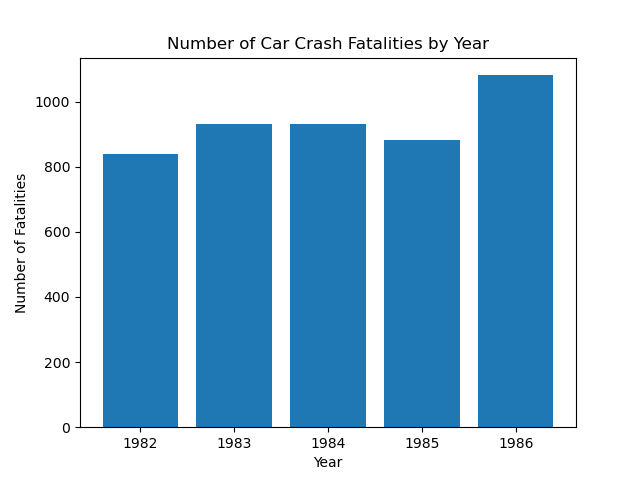
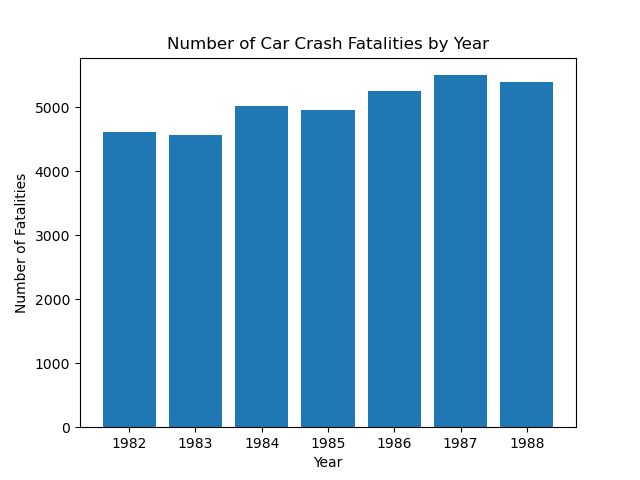
added md image path

diff --git a/driving_summary.md b/driving_summary.md
@@ -1,13 +1,13 @@
 Describe:
-|       |   Unnamed: 0 |       year |    fatal |
-|:------|-------------:|-----------:|---------:|
-| count |      5       |    5       |    5     |
-| mean  |      3       | 1984       |  932.8   |
-| std   |      1.58114 |    1.58114 |   91.311 |
-| min   |      1       | 1982       |  839     |
-| 25%   |      2       | 1983       |  882     |
-| 50%   |      3       | 1984       |  930     |
-| 75%   |      4       | 1985       |  932     |
-| max   |      5       | 1986       | 1081     |
+|       |   Unnamed: 0 |       year |    spirits |     unemp |   income |    emppop |     beertax |    baptist |     mormon |   drinkage |         dry |   youngdrivers |    miles |    fatal |   nfatal |   sfatal |   fatal1517 |   nfatal1517 |   fatal1820 |   nfatal1820 |   fatal2124 |   nfatal2124 |    afatal |              pop |        pop1517 |        pop1820 |        pop2124 |   milestot |   unempus |   emppopus |          gsp |
+|:------|-------------:|-----------:|-----------:|----------:|---------:|----------:|------------:|-----------:|-----------:|-----------:|------------:|---------------:|---------:|---------:|---------:|---------:|------------:|-------------:|------------:|-------------:|------------:|-------------:|----------:|-----------------:|---------------:|---------------:|---------------:|-----------:|----------:|-----------:|-------------:|
+| count |     336      |  336       | 336        | 336       |   336    | 336       | 336         | 336        | 336        | 336        | 336         |    336         |   336    |  336     |  336     |  336     |    336      |     336      |     336     |     336      |     336     |     336      |  336      |    336           |    336         |    336         |    336         |      336   | 336       |  336       | 336          |
+| mean  |     168.5    | 1985       |   1.75369  |   7.34673 | 13880.2  |  60.8057  |   0.513256  |   7.15692  |   2.80193  |  20.4556   |   4.26707   |      0.18593   |  7890.75 |  928.664 |  182.583 |  109.949 |     62.6101 |      12.2619 |     106.661 |      33.5268 |     126.872 |      41.378  |  293.333  |      4.93027e+06 | 230815         | 249090         | 336390         |    37101.5 |   7.52857 |   59.9714  |   0.0253135  |
+| std   |      97.1391 |    2.00298 |   0.683575 |   2.5334  |  2253.05 |   4.72166 |   0.477844  |   9.76262  |   9.66528  |   0.899025 |   9.5009    |      0.0248736 |  1475.66 |  934.051 |  188.431 |  108.54  |     55.7291 |      12.2534 |     104.224 |      33.2383 |     131.789 |      42.9303 |  303.581  |      5.0737e+06  | 229896         | 249346         | 345304         |    37454.4 |   1.47938 |    1.58505 |   0.0431732  |
+| min   |       1      | 1982       |   0.79     |   2.4     |  9513.76 |  42.9932  |   0.0433109 |   0        |   0.1      |  18        |   0         |      0.073137  |  4576.35 |   79     |   13     |    8     |      3      |       0      |       7     |       0      |      12     |       1      |   24.6    | 479000           |  21000         |  21000         |  30000.2       |     3993   |   5.5     |   57.8     |  -0.123641   |
+| 25%   |      84.75   | 1983       |   1.3      |   5.475   | 12085.8  |  57.6914  |   0.208849  |   0.626752 |   0.27216  |  20        |   0         |      0.170373  |  7182.54 |  293.75  |   53.75  |   35     |     25.75   |       4      |      38     |      11      |      42     |      13      |   90.4977 |      1.54525e+06 |  71749.9       |  76962.1       | 103500         |    11691.5 |   6.2     |   57.9     |   0.00118233 |
+| 50%   |     168.5    | 1985       |   1.67     |   7       | 13763.1  |  61.3647  |   0.352589  |   1.74925  |   0.393111 |  21        |   0.0868125 |      0.185387  |  7796.22 |  701     |  135     |   81     |     49      |      10      |      82     |      24      |      97.5   |      30      |  211.594  |      3.3105e+06  | 163000         | 170982         | 241000         |    28483.5 |   7.2     |   60.1     |   0.0324127  |
+| 75%   |     252.25   | 1987       |   2.0125   |   8.9     | 15175.1  |  64.4125  |   0.651573  |  13.1271   |   0.62932  |  21        |   2.42481   |      0.202185  |  8504.02 | 1063.5   |  212     |  131     |     77      |      15.25   |     130.25  |      44      |     150.5   |      49      |  363.958  |      5.75173e+06 | 270500         | 308311         | 413000         |    44139.8 |   9.6     |   61.5     |   0.0565011  |
+| max   |     336      | 1988       |   4.9      |  18       | 22193.5  |  71.2687  |   2.72076   |  30.3557   |  65.9165   |  21        |  45.7921    |      0.281625  | 26148.3  | 5504     | 1049     |  603     |    318      |      76      |     601     |     196      |     770     |     249      | 2094.9    |      2.8314e+07  |      1.172e+06 |      1.321e+06 |      1.893e+06 |   241575   |   9.7     |   62.3     |   0.142361   |
 
 ![driving_fatalities](python_files/outputs/driving_fatalities.png)

diff --git a/python_files/driving_summary.md b/python_files/driving_summary.md
@@ -10,4 +10,4 @@ Describe:
 | 75%   | 1987       | 1063.5   |
 | max   | 1988       | 5504     |
 
-![driving_fatalities](python_files/outputs/driving_fatalities.png)
+![driving_fatalities](outputs/driving_fatalities.png)
